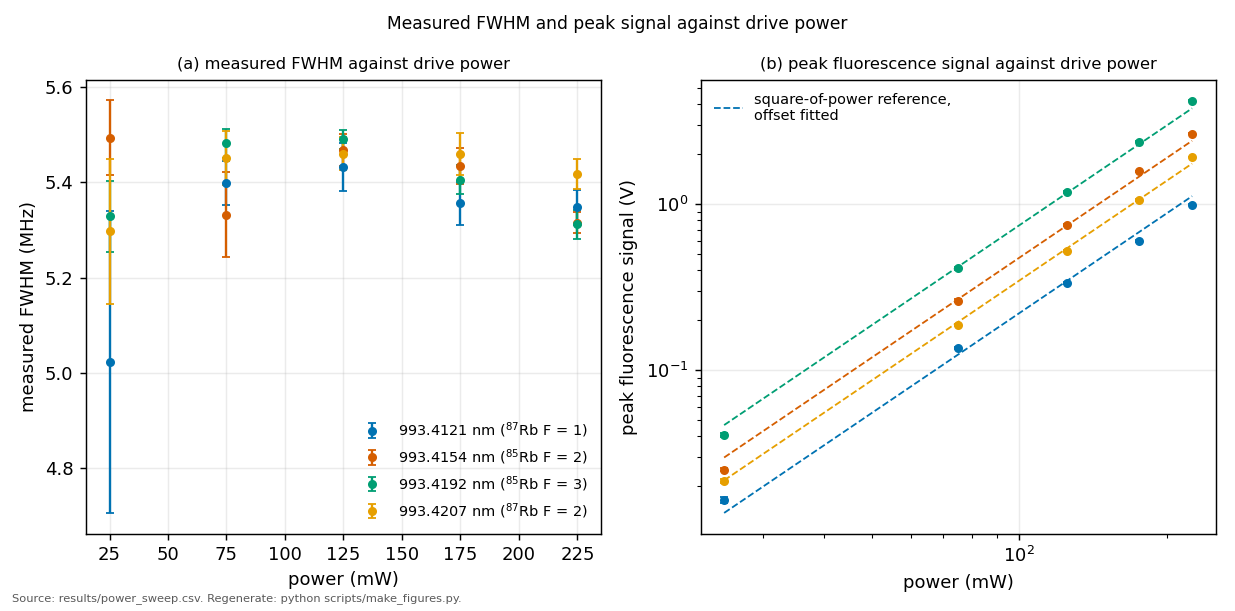
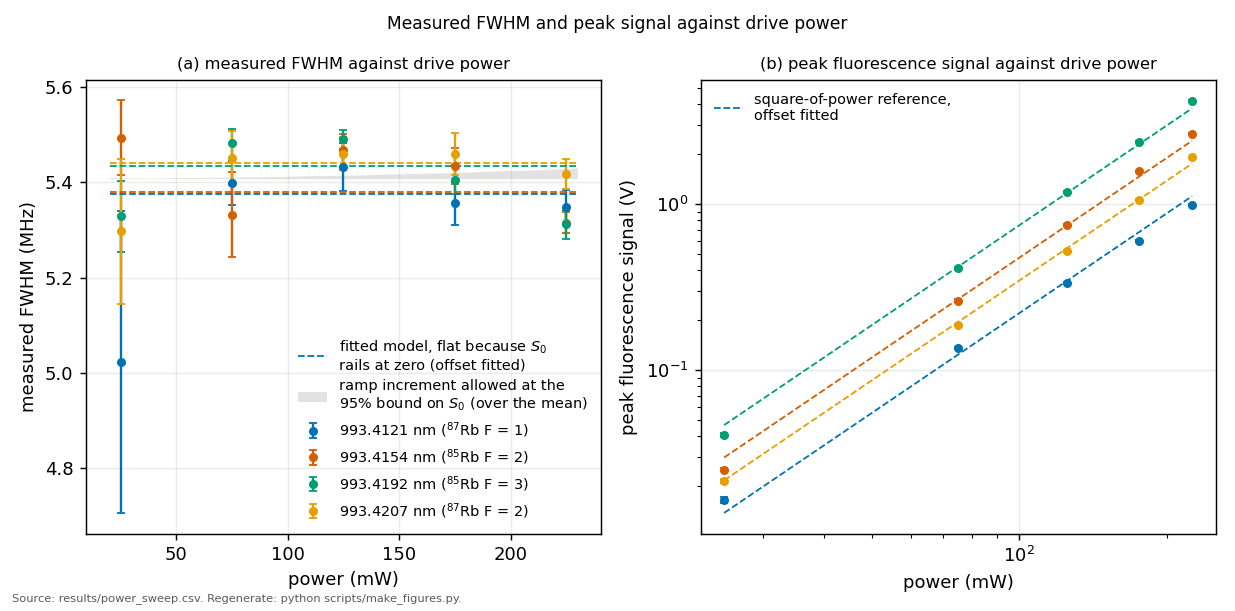
Draw the ramp law on the power-sweep figure instead of only claiming it
fig2's left panel carried the measured widths and a caption asserting the
ramp law, with nothing of the law on the canvas. The owner caught it
reading the outbound note built from this figure.

Two objects now, because the fit and the bound are different claims. The
fitted model has S0 railed at zero, so its prediction is a flat line at
each peak's weighted-mean width, offset fitted, testing only the shape
exactly as panel (b)'s slope-2 reference tests only the exponent. The
grey envelope over the pooled mean is the ramp increment allowed at the
committed 95 per cent profile bound on S0, under one per cent of the
line: the largest ramp the data allow, not an expectation.

A first version read the wrong CSV row: the quantity "S0_225mW_ub95" is
the replaced Wald diagnostic at 2.205 MHz, whose own unit field says to
quote the profile row instead, and the curve it produced sat visibly
above data that are consistent with the real bound of 0.632. The
selector now also filters on status BOUND, which is the column that
exists to prevent exactly this.

diff --git a/scripts/make_figures.py b/scripts/make_figures.py
@@ -256,6 +256,48 @@ def fig_power_sweep():
                     color=PEAK_COLOR[peak], label=PEAK_LABEL[peak], ms=4, lw=1.3, capsize=2)
         a2.errorbar(P, [x[3] for x in d], yerr=[x[4] for x in d], fmt="o",
                     color=PEAK_COLOR[peak], ms=4, capsize=2)
+    # THE MODEL'S OWN PREDICTION, drawn rather than only asserted (2026-08-12,
+    # owner reading of the outbound note built from this figure: the left panel
+    # carried data and a caption claiming the ramp law, with nothing of the law
+    # on the canvas). Two objects, because the fit and the bound are different
+    # claims. The fitted model has S0 railed at ZERO (S0_225mW_fit in the
+    # committed CSV), so its prediction is a FLAT line at each peak's
+    # weighted-mean width: that is the fit, offset fitted, testing only the
+    # shape exactly as panel (b)'s slope-2 reference tests only the exponent.
+    # The grey envelope above the pooled mean is the ramp increment at the
+    # committed 95 per cent PROFILE bound on S0: the largest ramp the data
+    # allow, not an expectation. Both computed at draw time from rb5s6s.stark
+    # and the committed CSV, never typed (protocol 12.9).
+    #
+    # ROW DISCIPLINE, learned here: a first version selected the quantity
+    # "S0_225mW_ub95", which is the REPLACED Wald diagnostic at 2.205 MHz and
+    # says "quote the profile row instead" in its own unit field. The quoted
+    # construction is S0_225mW_ub95_profile, 0.632 MHz, status BOUND. Filter
+    # on the status column, which exists for exactly this.
+    from rb5s6s import stark as _stark
+    _s0_ub = next(float(x["value"]) for x in _rows("stark_sweep")
+                  if x["quantity"] == "S0_225mW_ub95_profile"
+                  and x["key"] == "shared" and x["status"].lower() == "bound")
+    _gc, _sl, _tr = 0.60, 1.50, 0.96
+    _nu = np.arange(-45.0, 45.0, 0.01)
+    _pgrid = np.linspace(20.0, 230.0, 22)
+    _base = _stark._fwhm_of(_gc, _sl, _tr, 0.0, _nu)
+    _inc = np.array([_stark._fwhm_of(_gc, _sl, _tr, _s0_ub * p / 225.0, _nu)
+                     for p in _pgrid]) - _base
+    _wbars = []
+    for i, peak in enumerate(("4121", "4154", "4192", "4207")):
+        d = sorted(by[peak])
+        w = np.array([x[1] for x in d]); e = np.array([x[2] for x in d])
+        wbar = float(np.sum(w / e ** 2) / np.sum(1.0 / e ** 2))
+        _wbars.append(wbar)
+        a1.plot([_pgrid[0], _pgrid[-1]], [wbar, wbar], "--",
+                color=PEAK_COLOR[peak], lw=1.0,
+                label="fitted model, flat because $S_0$\n"
+                      "rails at zero (offset fitted)" if i == 0 else None)
+    _wm = float(np.mean(_wbars))
+    a1.fill_between(_pgrid, _wm, _wm + _inc, color="0.55", alpha=0.25, lw=0,
+                    label="ramp increment allowed at the\n"
+                          r"95% bound on $S_0$ (over the mean)")
     a1.set_xlabel("power (mW)")
     # Estimator named on the axis: this panel's widths are the raw
     # half-maximum widths of results/power_sweep.csv, averaged over repeats.
